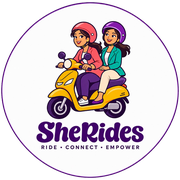
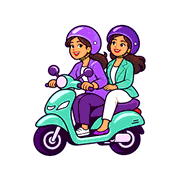
Apply violet and mint SheRides branding (#97)

diff --git a/app/layout.tsx b/app/layout.tsx
@@ -3,6 +3,7 @@ import { Inter, Montserrat } from "next/font/google";
 import localFont from "next/font/local";
 import { AppProviders } from "@/components/providers/AppProviders";
 import { RegisterSW } from "@/components/pwa/RegisterSW";
+import { brandAssetPath } from "@/lib/brand-assets";
 import "./globals.css";
 
 const inter = Inter({
@@ -26,7 +27,7 @@ const butterpop = localFont({
 });
 
 const siteUrl = "https://sherides.online";
-const ogImage = "/og.jpg";
+const ogImage = `${brandAssetPath}/share.jpg`;
 
 export const metadata: Metadata = {
   metadataBase: new URL(siteUrl),
@@ -37,13 +38,13 @@ export const metadata: Metadata = {
   manifest: "/manifest.webmanifest",
   icons: {
     icon: [
-      { url: "/favicon.ico" },
-      { url: "/icons/icon-16.png", sizes: "16x16", type: "image/png" },
-      { url: "/icons/icon-32.png", sizes: "32x32", type: "image/png" },
-      { url: "/icons/icon-48.png", sizes: "48x48", type: "image/png" },
-      { url: "/icons/icon-192.png", sizes: "192x192", type: "image/png" },
+      { url: `${brandAssetPath}/favicon.ico` },
+      { url: `${brandAssetPath}/icon-16.png`, sizes: "16x16", type: "image/png" },
+      { url: `${brandAssetPath}/icon-32.png`, sizes: "32x32", type: "image/png" },
+      { url: `${brandAssetPath}/icon-48.png`, sizes: "48x48", type: "image/png" },
+      { url: `${brandAssetPath}/icon-192.png`, sizes: "192x192", type: "image/png" },
     ],
-    apple: [{ url: "/apple-touch-icon.png", sizes: "180x180", type: "image/png" }],
+    apple: [{ url: `${brandAssetPath}/icon-180.png`, sizes: "180x180", type: "image/png" }],
   },
   alternates: {
     canonical: "/",
@@ -83,10 +84,6 @@ export default function RootLayout({ children }: { children: React.ReactNode }) 
   return (
     <html lang="en" className={`${inter.variable} ${montserrat.variable} ${butterpop.variable}`}>
       <head>
-        <link rel="icon" href="/favicon.ico" sizes="any" />
-        <link rel="icon" href="/icons/icon-32.png" type="image/png" sizes="32x32" />
-        <link rel="icon" href="/icons/icon-16.png" type="image/png" sizes="16x16" />
-        <link rel="apple-touch-icon" href="/apple-touch-icon.png" sizes="180x180" />
         <meta name="apple-mobile-web-app-capable" content="yes" />
         <link
           href="https://fonts.googleapis.com/css2?family=Material+Symbols+Outlined:opsz,wght,FILL,GRAD@24,400,0..1,0&display=swap"

diff --git a/lib/brand-assets.ts b/lib/brand-assets.ts
@@ -1,26 +1,13 @@
-/**
- * 2× PNG masters. The mark is the official curly wordmark cropped from the
- * tagline lockups (variants 4 and 5). Variant 1 (bold wordmark) is not used.
- * Dark files keep the illustration and use a light wordmark plus yellow tagline
- * so the type stays readable on Night Ink. Light files keep the original purple type.
- */
+export const brandAssetPath = "/brand/violet-mint";
+
+const mark = { src: `${brandAssetPath}/mark.webp`, width: 620, height: 685 };
+const lockup = { src: `${brandAssetPath}/lockup.webp`, width: 620, height: 730 };
+const badge = { src: `${brandAssetPath}/icon-192.png`, width: 192, height: 192 };
+
 export const brandAssets = {
-  mark: {
-    dark: { src: "/brand/mark-on-dark.png", width: 1507, height: 1685 },
-    light: { src: "/brand/mark-on-light.png", width: 1743, height: 2189 },
-    ratio: 1507 / 1685,
-  },
-  lockup: {
-    dark: { src: "/brand/lockup-on-dark.png", width: 1507, height: 1780 },
-    light: { src: "/brand/lockup-on-light.png", width: 1743, height: 2284 },
-    /** Wider of the two lockups, so a fixed box never shifts when the theme changes. */
-    ratio: 1507 / 1780,
-  },
-  badge: {
-    dark: { src: "/brand/badge-on-dark.png", width: 2446, height: 2426 },
-    light: { src: "/brand/badge-on-light.png", width: 2441, height: 2419 },
-    ratio: 1,
-  },
+  mark: { dark: mark, light: mark, ratio: mark.width / mark.height },
+  lockup: { dark: lockup, light: lockup, ratio: lockup.width / lockup.height },
+  badge: { dark: badge, light: badge, ratio: 1 },
 } as const;
 
 export type LogoVariant = keyof typeof brandAssets;

diff --git a/components/auth/AuthScene.tsx b/components/auth/AuthScene.tsx
@@ -13,7 +13,16 @@ export const authPrimaryClass =
   "inline-flex min-h-12 items-center justify-center rounded-full bg-gradient-to-b from-[#e4cffd] to-[#aa7bf3] px-5 text-center font-semibold text-[#201031] shadow-[0_5px_0_#7047ae,0_10px_24px_rgba(157,103,242,0.25)] transition-colors hover:from-[#eedfff] focus-visible:outline focus-visible:outline-2 focus-visible:outline-offset-4 focus-visible:outline-[#ded0ff]";
 
 export function AuthScene({ children, admin = false, embedded = false }: { children: ReactNode; admin?: boolean; embedded?: boolean }) {
-  if (embedded) return <div className="public-auth">{children}</div>;
+  if (embedded) {
+    return (
+      <div className="public-auth">
+        <div className="mb-4 flex justify-center">
+          <Logo height={108} tone="light" priority />
+        </div>
+        {children}
+      </div>
+    );
+  }
   return (
     <main className={`relative grid min-h-dvh place-items-center px-4 py-14 sm:px-8 ${authBackdropClass}`}>
       <div className="absolute right-4 top-4 sm:right-8">

diff --git a/lib/pwa-manifest.ts b/lib/pwa-manifest.ts
@@ -1,11 +1,12 @@
 import type { MetadataRoute } from "next";
+import { brandAssetPath } from "./brand-assets";
 import { SITE_URL } from "./site";
 
 const icons: NonNullable<MetadataRoute.Manifest["icons"]> = [
-  { src: "/icons/icon-192.png", sizes: "192x192", type: "image/png", purpose: "any" },
-  { src: "/icons/icon-512.png", sizes: "512x512", type: "image/png", purpose: "any" },
-  { src: "/icons/icon-192-maskable.png", sizes: "192x192", type: "image/png", purpose: "maskable" },
-  { src: "/icons/icon-512-maskable.png", sizes: "512x512", type: "image/png", purpose: "maskable" },
+  { src: `${brandAssetPath}/icon-192.png`, sizes: "192x192", type: "image/png", purpose: "any" },
+  { src: `${brandAssetPath}/icon-512.png`, sizes: "512x512", type: "image/png", purpose: "any" },
+  { src: `${brandAssetPath}/icon-192-maskable.png`, sizes: "192x192", type: "image/png", purpose: "maskable" },
+  { src: `${brandAssetPath}/icon-512-maskable.png`, sizes: "512x512", type: "image/png", purpose: "maskable" },
 ];
 
 const shared = {

diff --git a/components/ui/Logo.tsx b/components/ui/Logo.tsx
@@ -18,6 +18,7 @@ export function Logo({ variant = "mark", height = 48, tone = "dark", suffix, cla
   const width = Math.max(1, Math.round(height * asset.ratio));
   const sizes = `${width * 2}px`;
   const frame = "absolute inset-0 h-full w-full object-contain";
+  const darkFrame = variant === "badge" ? frame : `${frame} rounded-lg bg-[#f0e9ff] p-1`;
   const imageProps = { quality: 95 as const, priority };
 
   return (
@@ -34,7 +35,7 @@ export function Logo({ variant = "mark", height = 48, tone = "dark", suffix, cla
             height={asset.dark.height}
             sizes={sizes}
             {...imageProps}
-            className={tone === "auto" ? `brand-logo-dark ${frame}` : frame}
+            className={tone === "auto" ? `brand-logo-dark ${darkFrame}` : darkFrame}
           />
         ) : null}
         {tone !== "dark" ? (
